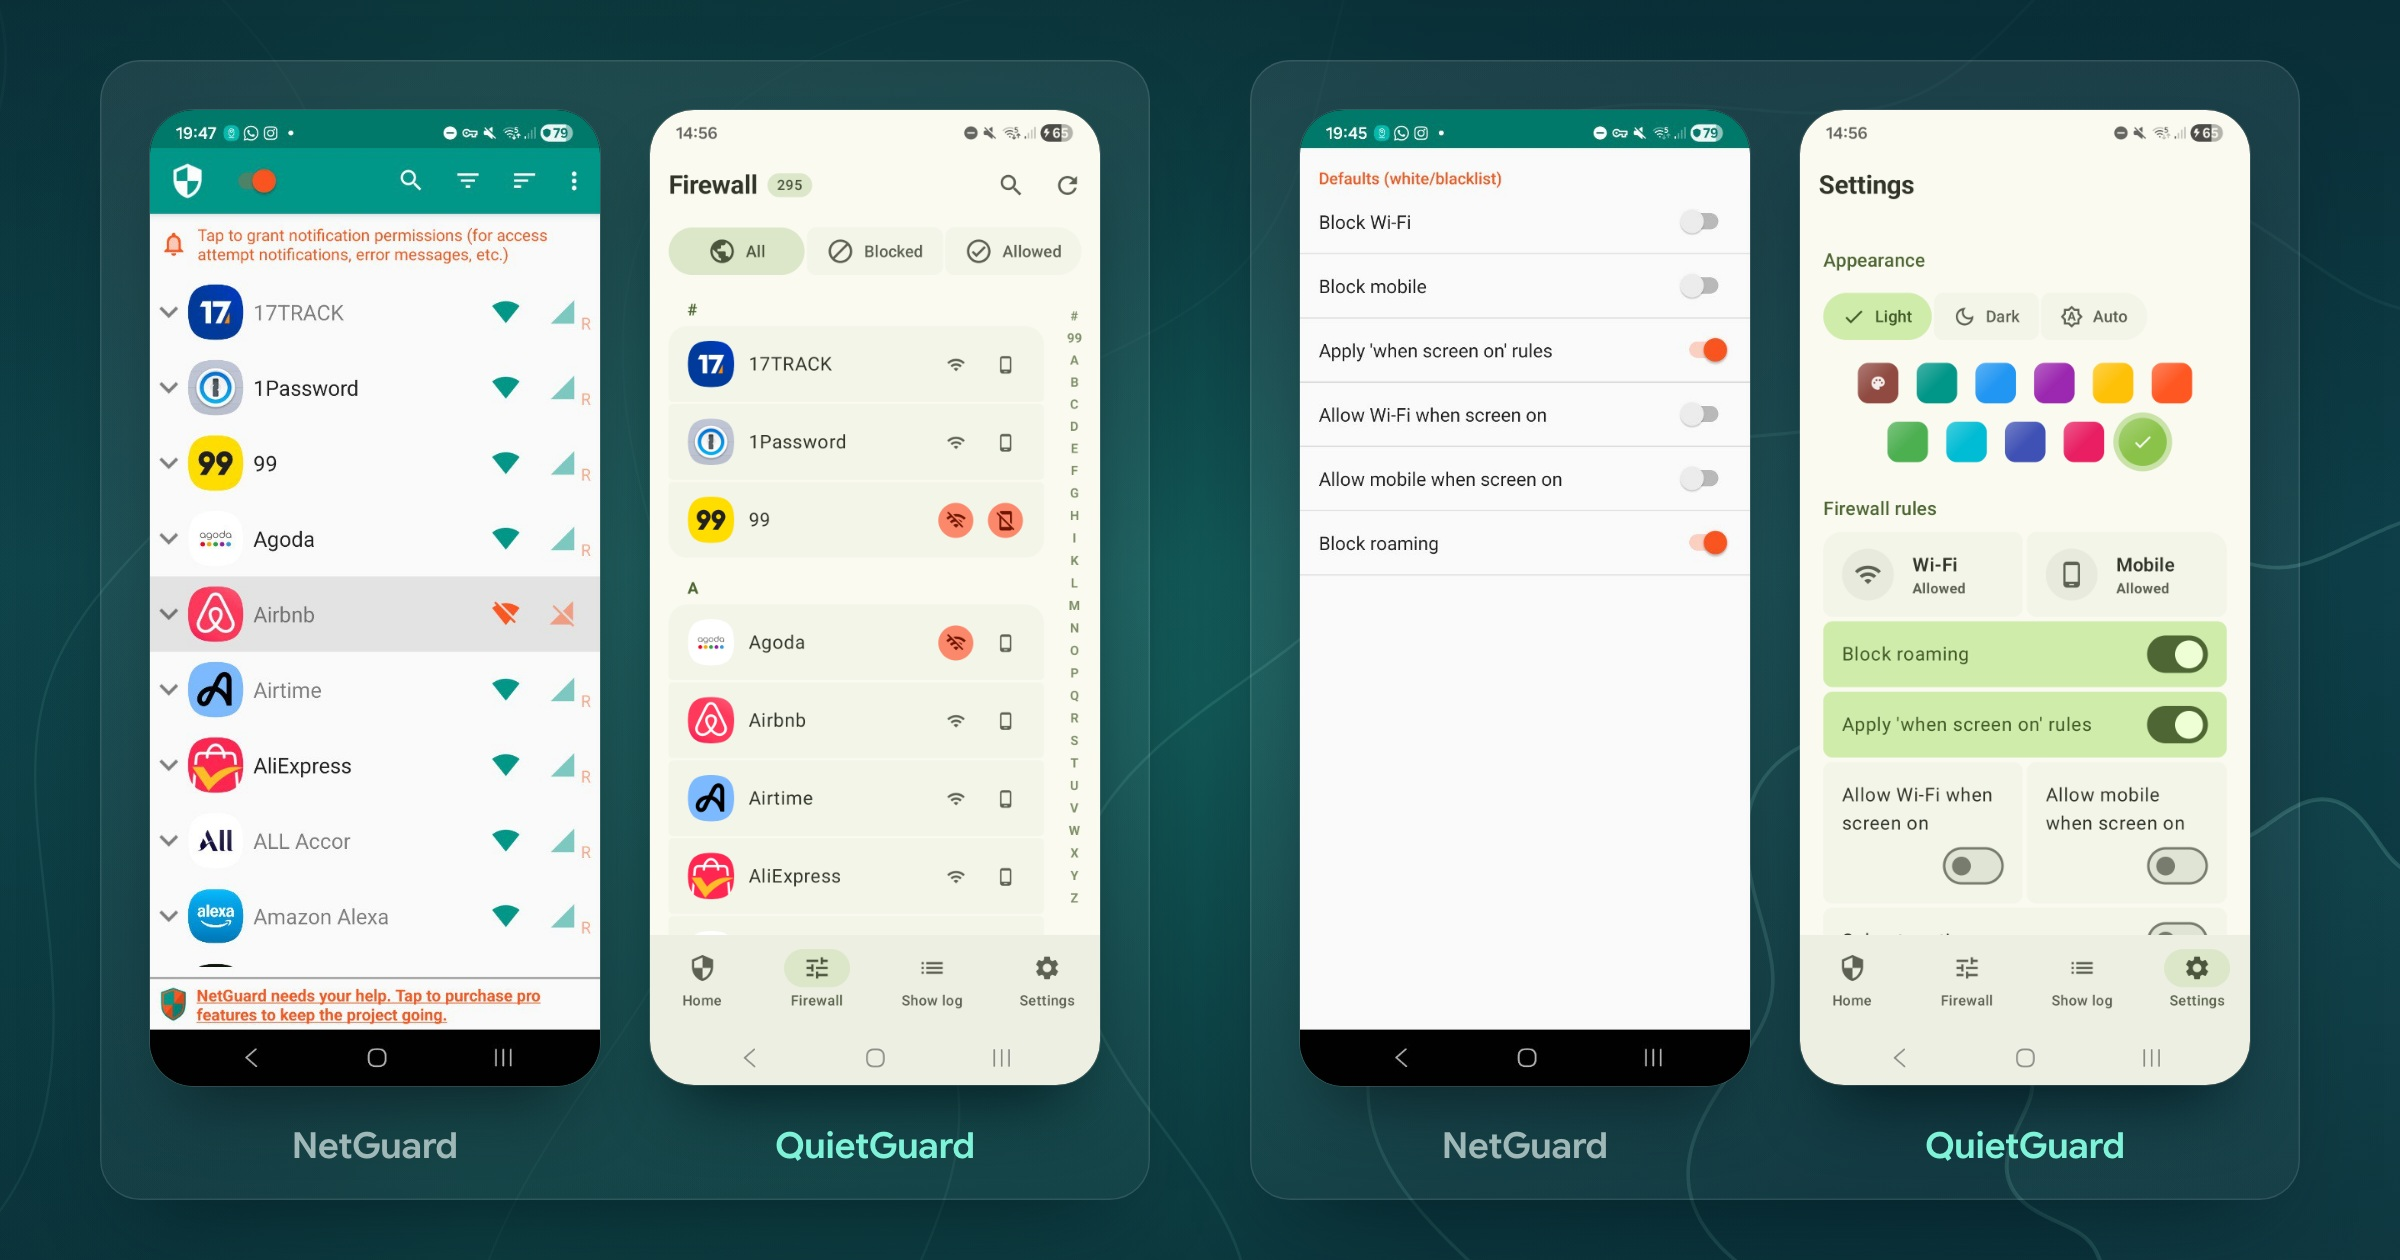
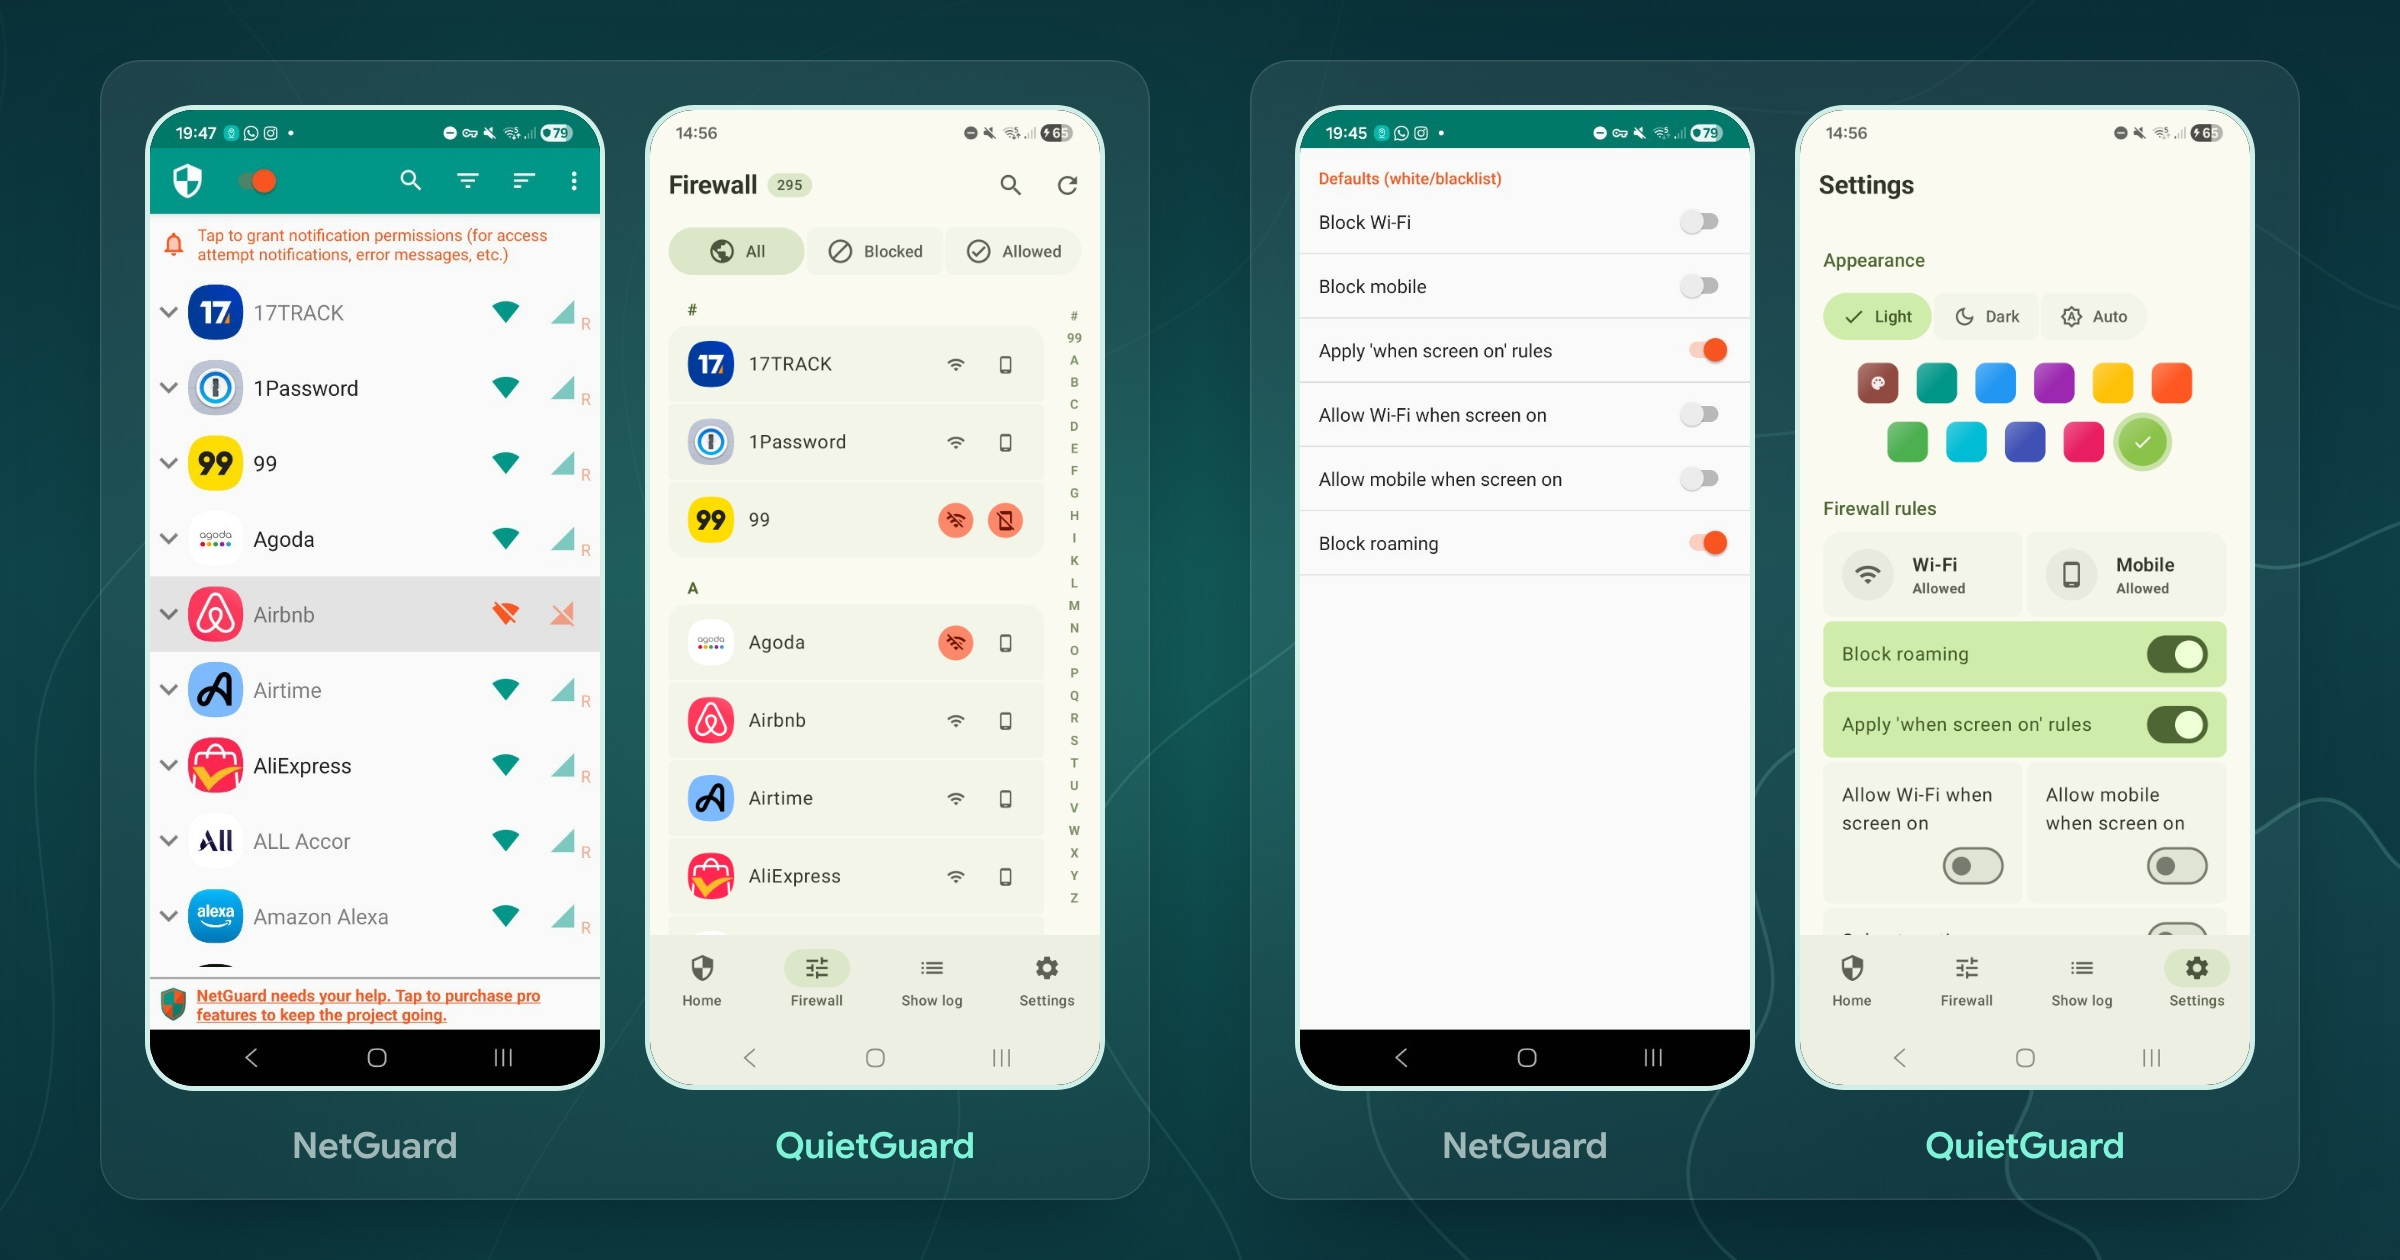
Outline the comparison screens with a border instead of a shadow

diff --git a/store-listing/theme.css b/store-listing/theme.css
@@ -66,7 +66,7 @@ header p{margin:28px auto 0;font-size:40px;line-height:1.28;font-weight:420;colo
 /* Before and after: the same phone and apps. No device frames, just the two real screens side by side,
    the same size, on one translucent sheet per pair, each named underneath. */
 .readme .compare .device{--bezel:0px;--radius:44px;width:450px;top:110px;background:none;
-  box-shadow:0 0 0 1px #ffffff1f,0 40px 70px -30px #00161cf0}
+  box-shadow:0 0 0 5px #cfeee7}
 .readme .compare .device .screen{border-radius:44px;overflow:hidden}
 .readme .compare .pair1.before{left:150px}
 .readme .compare .pair1.after{left:650px}
